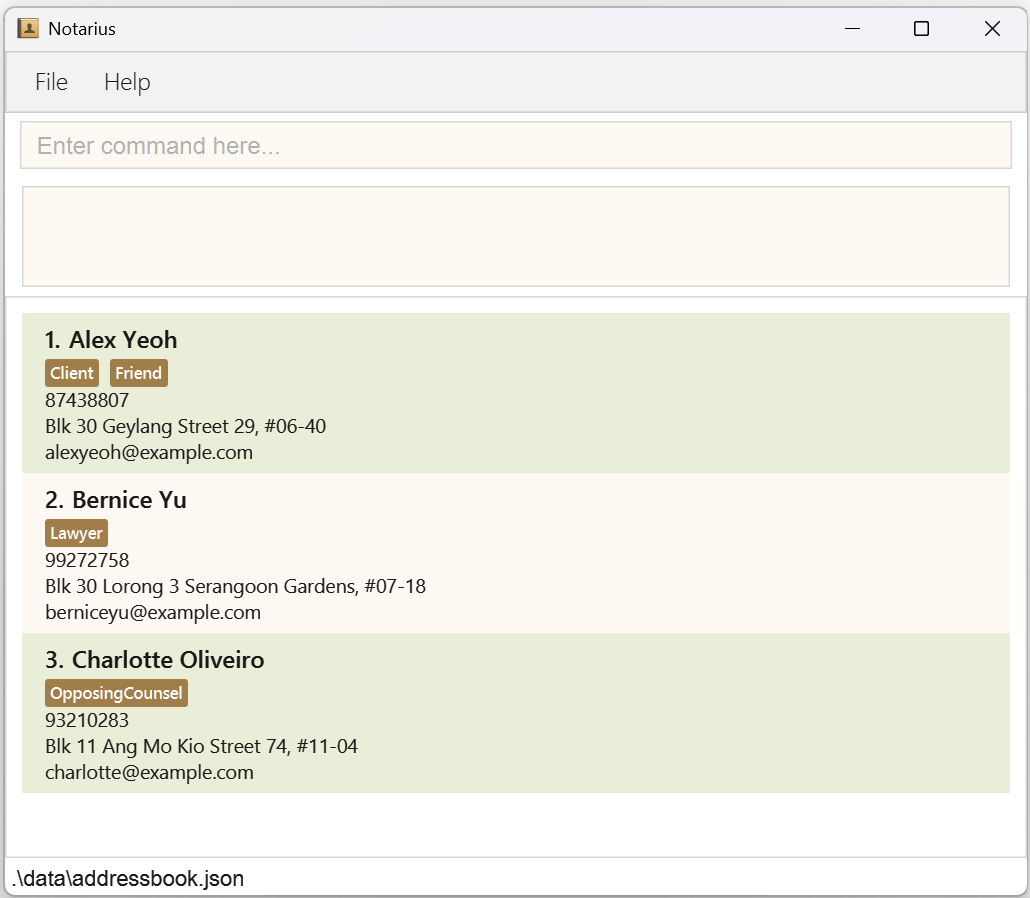
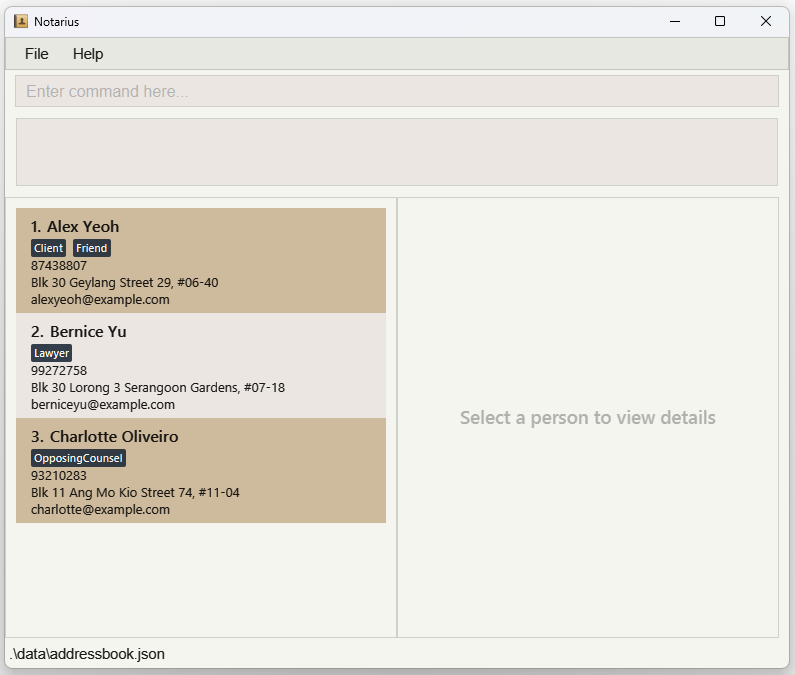
Change theme colours

Changed region(s): [[0.0, 0.0, 1.0, 1.0], [0.5736, 0.5911, 0.9057, 0.6533]]

diff --git a/src/main/resources/view/DarkTheme.css b/src/main/resources/view/DarkTheme.css
@@ -78,7 +78,7 @@
 }
 
 .split-pane:horizontal .split-pane-divider:hover {
-    -fx-background-color: -fx-primary;
+    -fx-background-color: #A0A0A0;
     -fx-padding: 2;
 }
 
@@ -413,7 +413,7 @@
 
 #tags .label {
     -fx-text-fill: white;
-    -fx-background-color: derive(-fx-primary, -40%);
+    -fx-background-color: #1F2B39;
     -fx-padding: 1 3 1 3;
     -fx-border-radius: 2;
     -fx-background-radius: 2;

diff --git a/src/main/resources/view/theme.css b/src/main/resources/view/theme.css
@@ -1,10 +1,10 @@
 /* Theme colors */
 .root {
-    -fx-bg: #fff;
+    -fx-bg: #F5F5EF;
     -fx-text: #000;
-    -fx-primary: #FFBF61;
-    -fx-secondary: #E9EED9;
-    -fx-secondary-bg: #FEF9F2;
+    -fx-primary: #FFBB61;
+    -fx-secondary: #CEBB9D;
+    -fx-secondary-bg: #EBE6E1;
     -fx-secondary-select: #B0E0E6;
     -fx-focus: derive(-fx-primary, -40%);
     -fx-link: #3e7b91;
